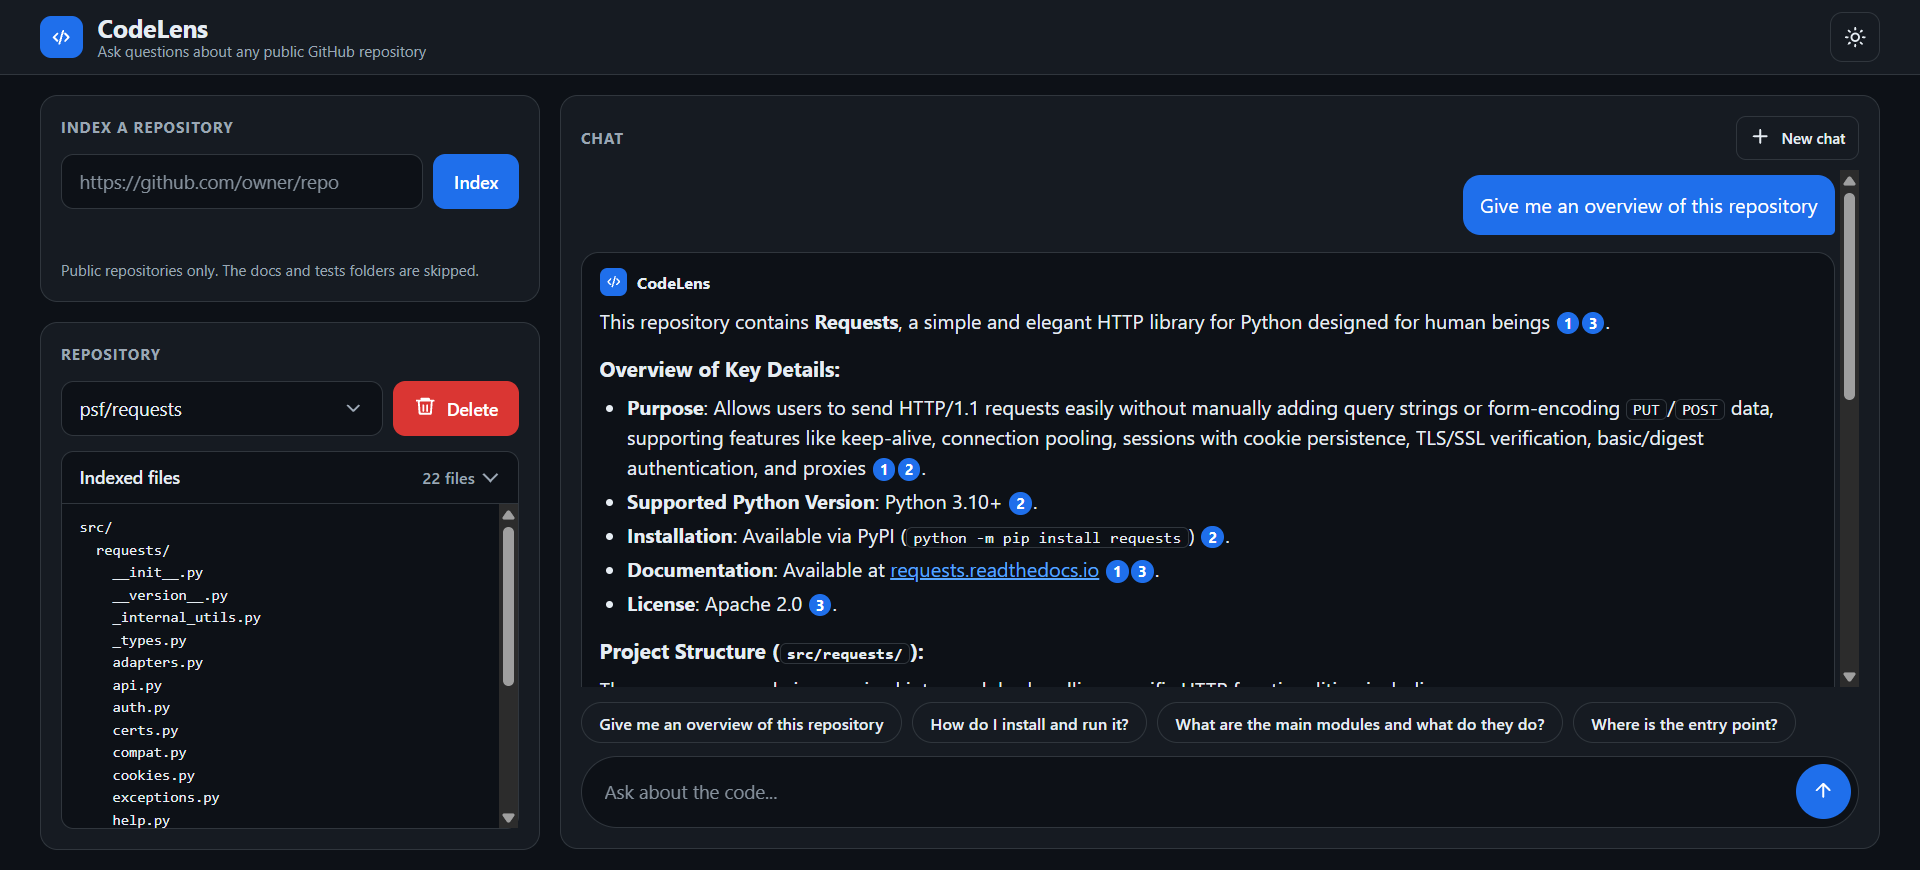
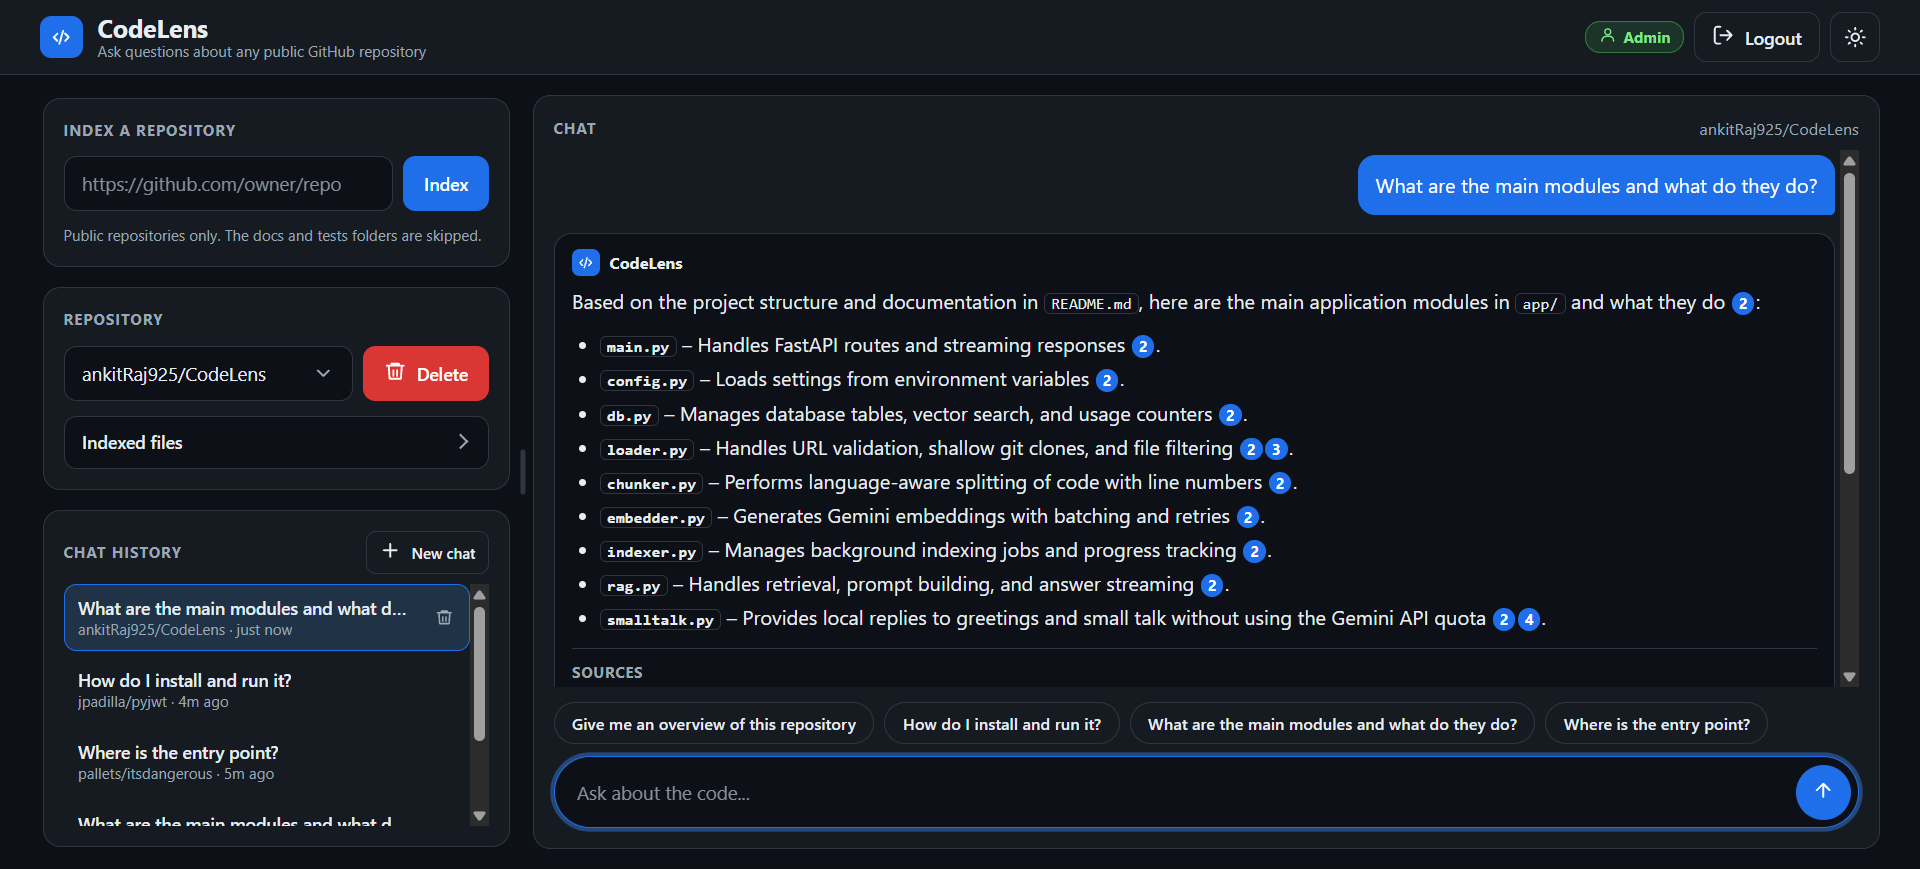
docs: add live demo link, access model and deployment guide
Document admin login, example repositories, visitor limits and the Render and Neon deployment.

diff --git a/README.md b/README.md
@@ -1,21 +1,12 @@
-<h1 align="center">CodeLens</h1>
+# CodeLens
 
-<p align="center">
-  <b>Ask questions about any public GitHub repository and get answers with citations, file names and line numbers.</b>
-</p>
+![Python 3.11](https://img.shields.io/badge/Python-3.11-3776AB?logo=python&logoColor=white) ![FastAPI](https://img.shields.io/badge/FastAPI-009688?logo=fastapi&logoColor=white) ![PostgreSQL with pgvector](https://img.shields.io/badge/PostgreSQL-pgvector-336791?logo=postgresql&logoColor=white) ![Docker Compose](https://img.shields.io/badge/Docker-Compose-2496ED?logo=docker&logoColor=white) ![MIT License](https://img.shields.io/badge/License-MIT-green)
 
-<p align="center">
-  <img src="https://img.shields.io/badge/Python-3.11-3776AB?logo=python&logoColor=white" alt="Python 3.11">
-  <img src="https://img.shields.io/badge/FastAPI-009688?logo=fastapi&logoColor=white" alt="FastAPI">
-  <img src="https://img.shields.io/badge/PostgreSQL-pgvector-336791?logo=postgresql&logoColor=white" alt="PostgreSQL with pgvector">
-  <img src="https://img.shields.io/badge/Docker-Compose-2496ED?logo=docker&logoColor=white" alt="Docker Compose">
-  <img src="https://img.shields.io/badge/License-MIT-green" alt="MIT License">
-</p>
+> *Ask questions about any public GitHub repository and get answers with citations, file names and line numbers.*
 
-<p align="justify">
-CodeLens is a Retrieval-Augmented Generation (RAG) application for codebases. Paste a public GitHub URL, let the background pipeline index the repository, and ask questions like <em>"Where is authentication handled?"</em> or <em>"How do I run this project?"</em>. Every answer streams in real time with exact file paths, line numbers, and direct GitHub links so you can verify the source code instantly.</p>
+**A Retrieval-Augmented Generation (RAG) app for codebases.** Paste a public GitHub URL, ask questions in plain English, and get streaming answers with exact file paths, line numbers and direct GitHub links.
 
-**Live demo:** _coming soon_
+🌐 **Live Demo:** [Open CodeLens](https://codelens-md10.onrender.com) · *Free hosting, so the first load after inactivity can take about a minute.*
 
 ## 🧭 Table of Contents
 
@@ -23,10 +14,12 @@ CodeLens is a Retrieval-Augmented Generation (RAG) application for codebases. Pa
 - [📸 Screenshots](#-screenshots)
 - [🧱 Architecture](#-architecture)
 - [🧠 How It Works](#-how-it-works)
+- [👥 Access Model](#-access-model)
 - [🧰 Technology Stack](#-technology-stack)
 - [📁 Project Structure](#-project-structure)
 - [🚀 Getting Started](#-getting-started)
 - [🔧 Configuration](#-configuration)
+- [🌐 Deployment](#-deployment)
 - [⚡ Keyboard Shortcuts](#-keyboard-shortcuts)
 - [🔌 API Reference](#-api-reference)
 - [🧩 Design Decisions](#-design-decisions)
@@ -42,9 +35,13 @@ CodeLens is a Retrieval-Augmented Generation (RAG) application for codebases. Pa
 - **Answers with sources:** every answer lists the files and line numbers it used, with one-click links to GitHub.
 - **Streaming answers** with a Stop button.
 - **Conversation memory:** follow-up questions like "explain that in simpler words" work.
+- **Chat history:** past conversations are saved in your browser and listed in a sidebar. You can reopen, continue or delete them, and drag the divider to resize the sidebar.
 - **Folder tree context:** the model also sees the repository structure, so layout questions get useful answers.
 - **Hallucination control:** the model answers only from retrieved code, and a similarity threshold skips the model call when nothing relevant is found.
-- **Multiple repositories:** switch between them from a dropdown, or delete them.
+- **Example repositories:** the admin picks repositories that every visitor can explore immediately.
+- **Visitor workspace without sign-up:** each visitor can add up to three repositories of their own, with a live counter of how many are left.
+- **Shared indexing:** a repository that is already indexed is reused, so it costs no extra API calls.
+- **Admin login:** one password unlocks full control, including showing or hiding repositories for visitors with a single click.
 - **Polished interface:** dark and light themes, responsive layout, markdown rendering, copy buttons and keyboard shortcuts.
 - **One-command setup** with Docker Compose.
 
@@ -72,6 +69,7 @@ flowchart TB
         subgraph App["App container (FastAPI)"]
             UI["Chat UI (static HTML)"]
             API["REST API"]
+            Auth["Admin login and visitor limits"]
             Jobs["Background indexing jobs"]
             RAG["RAG pipeline"]
         end
@@ -83,6 +81,7 @@ flowchart TB
 
     User --> UI
     UI --> API
+    API --> Auth
     API --> Jobs
     API --> RAG
     Jobs -->|"git clone"| GH
@@ -91,6 +90,10 @@ flowchart TB
     RAG -->|"embed question, generate answer"| GEM
     RAG -->|"similarity search"| DB
 ```
+
+<p align="justify">
+Locally, both containers run with Docker Compose. In the live demo, the app runs on Render and the database runs on Neon.
+</p>
 
 ## 🧠 How It Works
 
@@ -122,6 +125,21 @@ flowchart LR
 In plain words: the repository is cut into small pieces, and each piece is turned into a list of numbers (an embedding) that captures its meaning. A question is turned into numbers the same way, and the database finds the pieces whose meaning is closest. Only those pieces are sent to the language model, which is told to answer from them and nothing else.
 </p>
 
+## 👥 Access Model
+
+| | Admin | Visitor |
+|---|---|---|
+| **Sign-in** | Password | None, an anonymous browser cookie |
+| **Can see** | All repositories | Example repositories and their own |
+| **Indexing** | No limits (up to 1500 chunks per repository) | Up to 3 repositories, each up to 400 chunks |
+| **Deleting** | Any repository | Only their own repositories |
+| **Questions** | No limit | 15 per hour, and a daily cap for all visitors together |
+| **Data lifetime** | Permanent | Their own repositories are removed after 24 hours |
+
+<p align="justify">
+The admin decides which repositories are examples with the eye icon in the repository list: an open eye means visitors can see it, a crossed eye means admin only. A visitor cannot delete an example. The visitor counter ("You can add N more repositories") drops as soon as indexing starts, and deleting a repository does not give the slot back. Indexing new repositories is also capped per IP address and per day, to protect the API quota.
+</p>
+
 ## 🧰 Technology Stack
 
 <p align="center">
@@ -138,22 +156,26 @@ In plain words: the repository is cut into small pieces, and each piece is turne
 | Backend | Python 3.11, FastAPI, Uvicorn | REST API, streaming responses, background jobs |
 | Chunking | LangChain text splitters | Language-aware splitting of source code |
 | AI | Google Gemini (`google-genai`) | Embeddings and answer generation |
-| Database | PostgreSQL 16 with pgvector | Vector storage, HNSW index, cosine similarity search |
+| Database | PostgreSQL 16 with pgvector | Vector storage, HNSW index, cosine similarity search, ownership and limits |
 | Data access | SQLAlchemy, psycopg 3 | Queries and transactions |
+| Access control | Signed cookies | Admin login and anonymous visitor sessions |
 | Repository access | Git, GitPython | Shallow clone of public repositories from GitHub |
 | Frontend | HTML, CSS, JavaScript | Chat interface served by FastAPI, no build step |
-| Packaging | Docker, Docker Compose | One-command setup |
+| Packaging | Docker, Docker Compose | One-command local setup |
+| Hosting | Render, Neon | Docker web service for the app, serverless PostgreSQL with pgvector for the data |
 
 </details>
 
 ## 📁 Project Structure
 
 ```
-codelens/
+CodeLens/
 ├── app/
 │   ├── main.py        # FastAPI routes and streaming responses
 │   ├── config.py      # Settings loaded from environment variables
-│   ├── db.py          # Tables, vector search, usage counters
+│   ├── auth.py        # Admin login, signed cookies, visitor sessions
+│   ├── limits.py      # Visitor question and indexing limits
+│   ├── db.py          # Tables, vector search, ownership, usage counters
 │   ├── loader.py      # URL validation, git clone, file filtering
 │   ├── chunker.py     # Language-aware splitting with line numbers
 │   ├── embedder.py    # Gemini embeddings with batching and retries
@@ -181,8 +203,8 @@ codelens/
 **Run it locally**
 
 ```bash
-git clone https://github.com/YOUR_USERNAME/codelens.git
-cd codelens
+git clone https://github.com/ankitRaj925/CodeLens.git
+cd CodeLens
 ```
 
 Create your environment file (Windows PowerShell: `copy .env.example .env`, macOS/Linux: `cp .env.example .env`) and set your values:
@@ -202,16 +224,40 @@ docker compose up --build
 
 Open **http://localhost:8000**, paste a public GitHub URL, press **Enter**, and start asking questions. Interactive API docs are at http://localhost:8000/docs.
 
+<p align="justify">
+With no admin password set, you are the admin on your own machine: there are no limits, and every repository you index is visible to you. To try the visitor experience, add <code>ADMIN_PASSWORD=choose_a_password</code> to <code>.env</code> and run <code>docker compose up -d</code>. You will then be a visitor until you click <b>Admin login</b>.
+</p>
+
 To stop the app, press `Ctrl + C` and run `docker compose down`. Indexed data is kept in a Docker volume; add `-v` only if you want to delete it.
 
 ## 🔧 Configuration
 
 | Variable | Purpose |
 |---|---|
-| `POSTGRES_USER`, `POSTGRES_PASSWORD`, `POSTGRES_DB` | Credentials for the database container |
+| `POSTGRES_USER`, `POSTGRES_PASSWORD`, `POSTGRES_DB` | Credentials for the local database container |
+| `DATABASE_URL` | Connection string of a hosted PostgreSQL database (used in deployment; Docker Compose builds it for you locally) |
 | `GOOGLE_API_KEY` | Your Gemini API key |
+| `ADMIN_PASSWORD` | Admin password. Leave it empty for local use. It is required in production |
+| `SECRET_KEY` | Secret used to sign the admin cookie. Falls back to the admin password |
 
-The model names live in code: `EMBEDDING_MODEL` in `app/embedder.py` and `CHAT_MODEL` in `app/rag.py`. Google renames models from time to time, so if you see a "model not found" error, check the [current model list](https://ai.google.dev/gemini-api/docs/models) and update those two lines.
+<p align="justify">
+Visitor limits (repositories per visitor, chunks per repository, questions per hour, data lifetime and more) live in <code>app/config.py</code> and can be overridden with environment variables such as <code>VISITOR_MAX_REPOS</code>. The model names live in code: <code>EMBEDDING_MODEL</code> in <code>app/embedder.py</code> and <code>CHAT_MODEL</code> in <code>app/rag.py</code>. Google renames models from time to time, so if you see a "model not found" error, check the <a href="https://ai.google.dev/gemini-api/docs/models">current model list</a> and update those two lines.
+</p>
+
+## 🌐 Deployment
+
+<p align="justify">
+The live demo runs on <b>Render</b>, which builds the app from the <code>Dockerfile</code>, and uses <b>Neon</b> as the PostgreSQL database. Both are on free plans.
+</p>
+
+1. **Neon:** create a project and copy the connection string with connection pooling switched off. It ends with `?sslmode=require`. The app enables the `vector` extension by itself.
+2. **Render:** create a new Web Service from the GitHub repository, choose **Docker** as the language, pick the free instance type, and set the health check path to `/health`.
+3. **Environment variables on Render:** `DATABASE_URL`, `GOOGLE_API_KEY`, `ADMIN_PASSWORD` and `SECRET_KEY`.
+4. **First run:** open the site, click **Admin login**, index a few repositories, and use the eye icon to show them to visitors as examples.
+
+<p align="justify">
+Render provides the port through the <code>PORT</code> variable, and the Dockerfile uses it. On Render the app refuses to start without <code>ADMIN_PASSWORD</code>, so a configuration mistake can never turn every visitor into an admin. Free instances sleep after a period of inactivity, so the first request after a break can take about a minute. Secrets are set in the Render dashboard and never committed to Git.
+</p>
 
 ## ⚡ Keyboard Shortcuts
 
@@ -223,6 +269,8 @@ The model names live in code: `EMBEDDING_MODEL` in `app/embedder.py` and `CHAT_M
 | `Esc` | Stop a streaming answer |
 | `Alt + N` | New chat |
 | `Alt + T` | Toggle theme |
+| `E` | In the repository list (admin): show or hide the highlighted repository for visitors |
+| `Left` / `Right` | On the sidebar divider: resize the sidebar |
 
 ## 🔌 API Reference
 
@@ -230,13 +278,17 @@ The model names live in code: `EMBEDDING_MODEL` in `app/embedder.py` and `CHAT_M
 |---|---|---|
 | `GET` | `/` | Chat page |
 | `GET` | `/health` | Checks the database, pgvector and API key |
-| `POST` | `/index-repo` | Starts indexing in the background and returns a `job_id` (`202`). Body: `{"repo_url": "https://github.com/owner/repo"}` |
-| `GET` | `/index-jobs/{job_id}` | Status, stage and progress percent of an indexing job |
-| `GET` | `/repos` | Lists indexed repositories |
+| `POST` | `/admin/login` | Logs the admin in and sets a signed cookie. Wrong passwords are rate limited |
+| `POST` | `/admin/logout` | Logs the admin out |
+| `GET` | `/me` | Current role, remaining repository slots and limits |
+| `GET` | `/usage` | Gemini requests made by the app today (admin only) |
+| `GET` | `/repos` | Repositories the caller may see: examples plus their own |
 | `GET` | `/repos/{owner}/{name}/tree` | Folder tree of the indexed files |
-| `DELETE` | `/repos/{owner}/{name}` | Deletes a repository and its chunks |
+| `PATCH` | `/repos/{owner}/{name}` | Shows or hides a repository for visitors (admin only). Body: `{"is_example": true}` |
+| `DELETE` | `/repos/{owner}/{name}` | Admin: deletes a repository for everyone. Visitor: removes their own repository. Examples are protected |
+| `POST` | `/index-repo` | Starts indexing in the background and returns a `job_id` (`202`). Returns `{"status": "ready"}` when the repository is already indexed and is shared instantly. Body: `{"repo_url": "https://github.com/owner/repo"}` |
+| `GET` | `/index-jobs/{job_id}` | Status, stage and progress percent of an indexing job |
 | `POST` | `/ask` | Streams an answer as newline-delimited JSON events (`sources`, `token`, `done`, `error`). Body: `repo`, `question`, optional `history` |
-| `GET` | `/usage` | Gemini requests made by this app today |
 
 ## 🧩 Design Decisions
 
@@ -246,23 +298,30 @@ The model names live in code: `EMBEDDING_MODEL` in `app/embedder.py` and `CHAT_M
 - **Streaming with newline-delimited JSON:** sources arrive first, then the answer token by token.
 - **Background jobs with polling:** indexing takes minutes, so it runs outside the request and the UI polls for progress.
 - **Safe re-indexing:** old chunks are replaced only after the new embeddings succeed.
+- **Anonymous sessions instead of accounts:** visitors get a random cookie, so there is no sign-up friction, yet every visitor only sees and deletes their own repositories.
+- **Server-side enforcement:** limits and permissions are checked on the server for every request, not only hidden in the interface.
+- **Limits stored in the database:** counters survive restarts and the sleep cycles of free hosting, so they cannot be reset by waking the server.
+- **Shared indexing:** a repository is embedded once and reused for everyone who adds it, which saves API quota.
 - **Quota awareness:** batched requests, retries with backoff, one indexing job at a time, and a clear message when the daily quota is reached.
-- **Security basics:** only `https://github.com/owner/repo` URLs are accepted, symlinks in cloned repositories are never followed, and all model output is HTML-escaped before rendering. Secrets stay in `.env`, which is excluded from Git.
+- **Security basics:** only `https://github.com/owner/repo` URLs are accepted, symlinks in cloned repositories are never followed, and all model output is HTML-escaped before rendering. The admin identity is a signed cookie with an expiry, and secrets stay in environment variables, never in Git.
 
 ## 🚧 Limitations
 
 - Only **public** repositories are supported.
-- Repositories above **1500 chunks** are rejected to protect the free API quota, and `docs` and `tests` folders are skipped.
-- Supported files: Python, JavaScript, TypeScript, Java, Go, Rust, C, C++, C#, Ruby, PHP and Markdown.
+- Visitors can keep up to **3** repositories of up to **400 chunks** each, and they are removed after 24 hours. The admin can index up to 1500 chunks per repository.
+- The `docs` and `tests` folders are skipped.
+- Supported files: Python, JavaScript, TypeScript, Java, Go, Rust, C, C++, C#, Ruby, PHP and Markdown. Files such as Dockerfile, YAML, JSON and HTML are not indexed.
 - Free Gemini tiers have per-minute and per-day limits, so large repositories can hit a rate limit.
-- There are no user accounts; all indexed repositories are visible to everyone using the instance.
+- Chat history is stored in the browser, so it does not follow you to another device.
+- Visitors are identified by a browser cookie, so clearing cookies means losing access to their own repositories.
 
 ## 🔮 Future Improvements
 
 - Support for private repositories (GitHub token)
 - Hybrid search (keyword plus vector) and re-ranking
 - Re-indexing only changed files
-- User accounts and per-user repositories
+- Indexing more file types, such as Dockerfile, YAML and JSON
+- Optional user accounts with chat history saved on the server
 - Automated tests and a CI pipeline
 
 ## 📄 License
